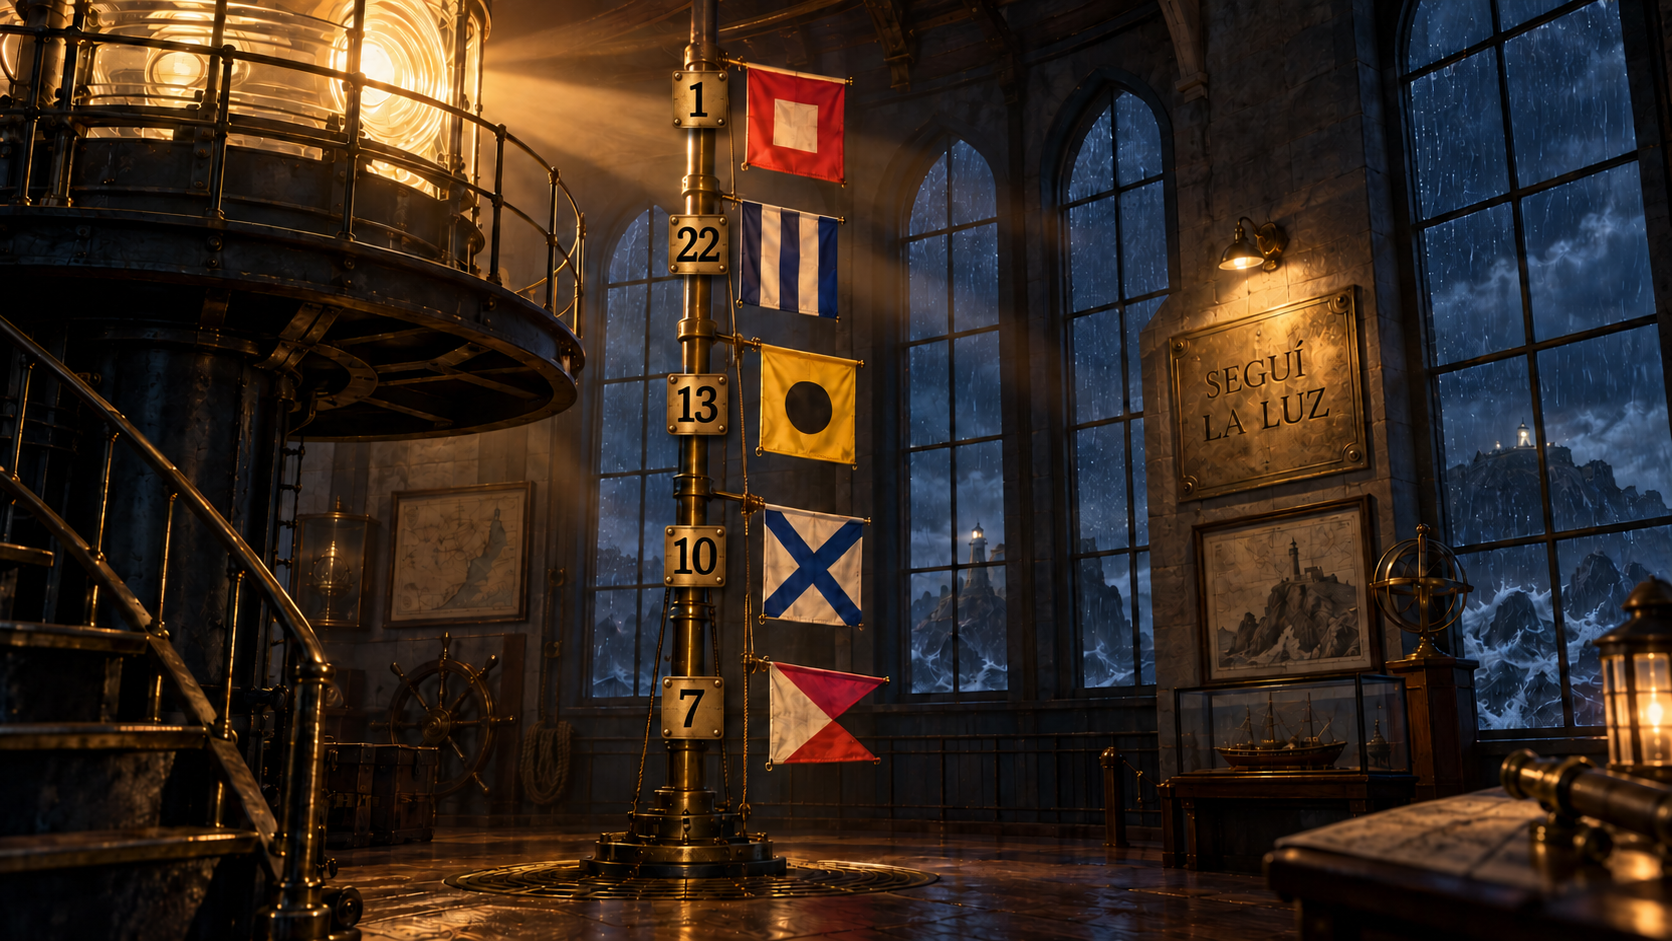
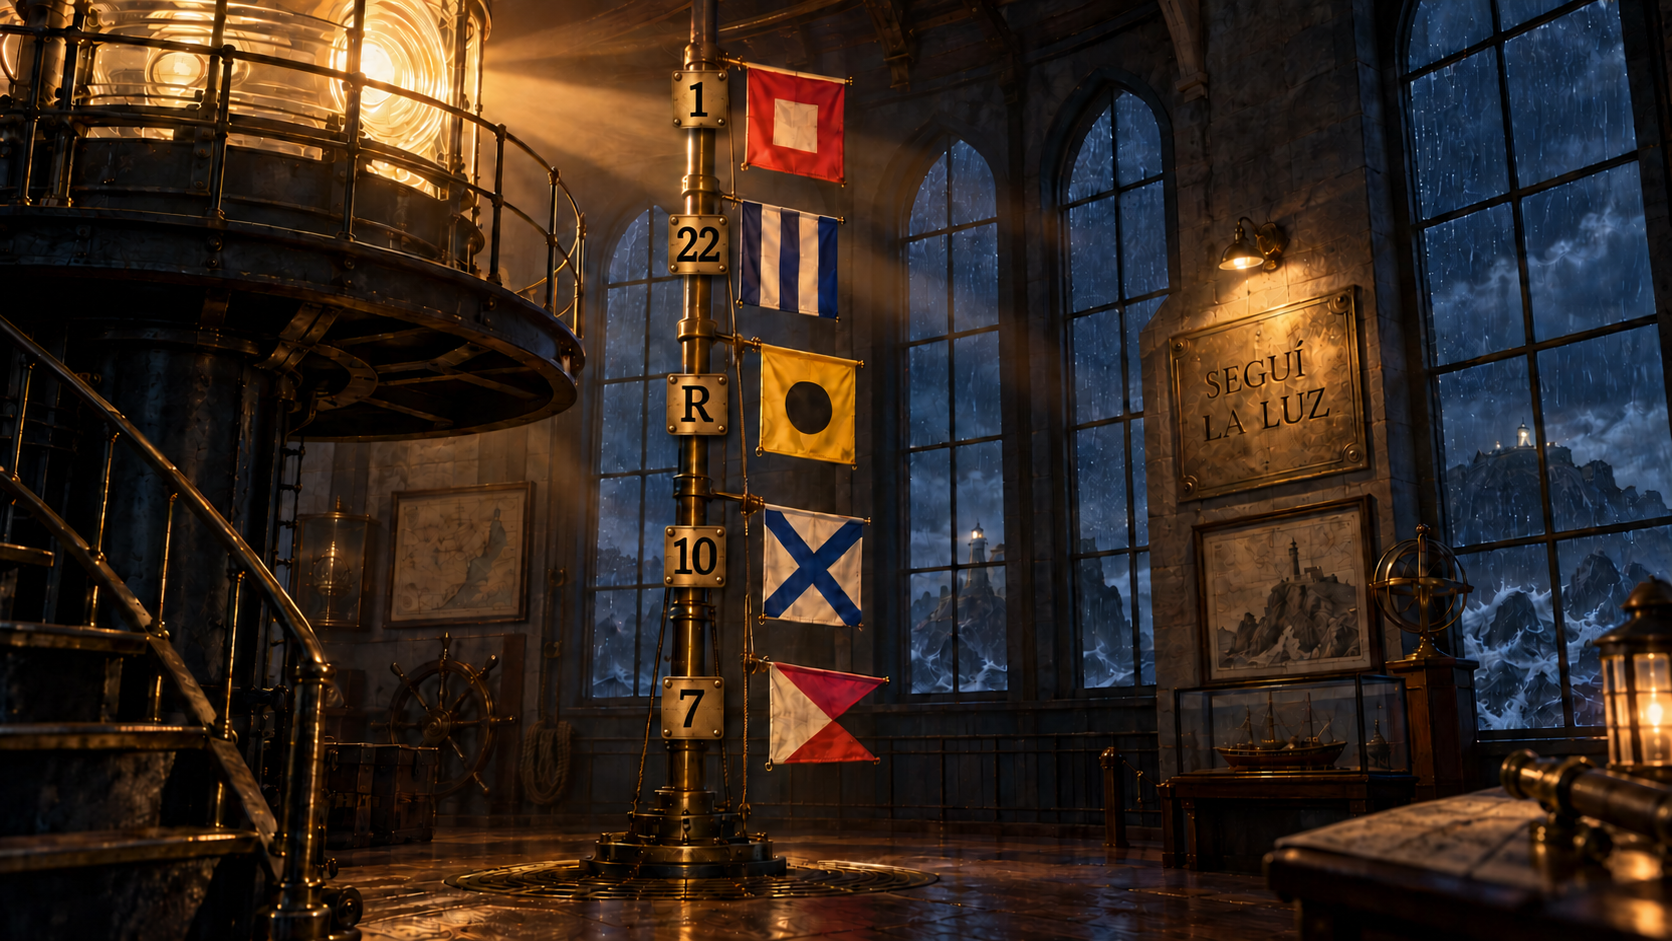
correct flag clue and clarify level seven masks

diff --git a/temp-vite-app/detectives/App.tsx b/temp-vite-app/detectives/App.tsx
@@ -59,7 +59,7 @@ function MechanicalCodeBuilder({onCode}:{onCode:(code:string)=>void}){
   useEffect(()=>{onCode(odd.length===3&&even.length===2?`${odd}${even}`:'');},[odd,even,onCode]);
   const digits=(value:string,max:number)=>value.replace(/\D/g,'').slice(0,max);
   const oddComplete=odd.length===3,evenComplete=even.length===2,oddCorrect=odd==='118',evenCorrect=even==='20',ready=oddCorrect&&evenCorrect;
-  return <section className={`mechanical-code-builder ${ready?'mechanism-ready':''}`} aria-labelledby="mechanical-builder-title"><span>CALIBRACIÓN DEL MECANISMO</span><h3 id="mechanical-builder-title">Armá la combinación</h3><p>Sumá cada recorrido por separado. El mecanismo unirá los dos resultados.</p><div><label className={oddComplete?(oddCorrect?'path-correct':'path-error'):''}>IMPARES<input inputMode="numeric" value={odd} onChange={event=>{const next=digits(event.target.value,3);if(next.length>odd.length)playKeyboardKey();setOdd(next);}} maxLength={3} placeholder="___" aria-label="Resultado de los impares"/></label><i aria-hidden="true">+</i><label className={evenComplete?(evenCorrect?'path-correct':'path-error'):''}>PARES<input inputMode="numeric" value={even} onChange={event=>{const next=digits(event.target.value,2);if(next.length>even.length)playKeyboardKey();setEven(next);}} maxLength={2} placeholder="__" aria-label="Resultado de los pares"/></label><output aria-live="polite"><strong>{ready?'11820':'·····'}</strong></output></div><small>{ready?'Mecanismo preparado. Verificá la combinación.':oddComplete&&!oddCorrect?'Revisá solamente el recorrido IMPARES.':evenComplete&&!evenCorrect?'Revisá solamente el recorrido PARES.':'Primero IMPARES; después PARES.'}</small></section>;
+  return <section className={`mechanical-code-builder ${ready?'mechanism-ready':''}`} aria-labelledby="mechanical-builder-title"><span>CALIBRACIÓN DEL MECANISMO</span><h3 id="mechanical-builder-title">Armá la combinación</h3><p>Usá la máscara A con los PARES y la máscara B con los IMPARES. Sumá cada recorrido por separado.</p><div><label className={oddComplete?(oddCorrect?'path-correct':'path-error'):''}>IMPARES · MÁSCARA B<input inputMode="numeric" value={odd} onChange={event=>{const next=digits(event.target.value,3);if(next.length>odd.length)playKeyboardKey();setOdd(next);}} maxLength={3} placeholder="___" aria-label="Resultado de los impares con la máscara B"/></label><i aria-hidden="true">+</i><label className={evenComplete?(evenCorrect?'path-correct':'path-error'):''}>PARES · MÁSCARA A<input inputMode="numeric" value={even} onChange={event=>{const next=digits(event.target.value,2);if(next.length>even.length)playKeyboardKey();setEven(next);}} maxLength={2} placeholder="__" aria-label="Resultado de los pares con la máscara A"/></label><output aria-live="polite"><strong>{ready?'11820':'·····'}</strong></output></div><small>{ready?'Mecanismo preparado. Verificá la combinación.':oddComplete&&!oddCorrect?'Revisá solamente el recorrido IMPARES.':evenComplete&&!evenCorrect?'Revisá solamente el recorrido PARES.':'Primero IMPARES; después PARES.'}</small></section>;
 }
 
 function FedeArtwork({src,alt,playing,variant,children,staticSrc,frames,sequence,frameDuration=.14}:{src:string;alt:string;playing:boolean;variant:string;children?:ReactNode;staticSrc?:string;frames?:string[];sequence?:string[];frameDuration?:number}){
@@ -114,13 +114,13 @@ function LevelFourStoryDialog({kind,onContinue}:{kind:'intro'|'success';onContin
 const lateStories={
   5:{introTitle:'Recuperá el registro.',introText:'El corredor desemboca en un puesto de conservación. Recuperá el dato oculto del informe y seguí su movimiento en la tabla.',successTitle:'R-17 deja un rastro.',successText:unlockMessages[4].text,background:'/los-archivos-f/images/bg-hidden-corridor.png',introArtwork:'/los-archivos-f/images/federica-nivel-5-inicio-v1.png'},
   6:{introTitle:'Cinco señales.',introText:'La Sala de Banderas conserva una indicación sobre el recorrido de la luz. Descubrí el orden y traducí las cinco señales.',successTitle:'Ubicación encontrada.',successText:unlockMessages[5].text,background:'/los-archivos-f/images/nivel-6-sala-banderas-v3.png',introArtwork:'/los-archivos-f/images/nivel-6-sala-banderas-v3.png'},
-  7:{introTitle:'Descubrí la clave.',introText:'La linterna superior oculta un compartimento. Seguí los recorridos IMPARES y PARES para abrirlo, pero mantené cerrado el sobre.',successTitle:'Compartimento abierto.',successText:unlockMessages[6].text,background:'/los-archivos-f/images/lens-workshop.jpg',introArtwork:'/los-archivos-f/images/lens-workshop.jpg'},
+  7:{introTitle:'Descubrí la clave.',introText:'La linterna superior oculta un compartimento. La máscara A va con los PARES y la B con los IMPARES. Seguí ambos recorridos para abrirlo, pero mantené cerrado el sobre.',successTitle:'Compartimento abierto.',successText:unlockMessages[6].text,background:'/los-archivos-f/images/lens-workshop.jpg',introArtwork:'/los-archivos-f/images/lens-workshop.jpg'},
 } as const;
 
 function LateLevelStoryDialog({level,kind,onContinue}:{level:5|6|7;kind:'intro'|'success';onContinue:()=>void}){
   const [playing,setPlaying]=useState(false);const story=lateStories[level];const success=kind==='success';
   return <section className={`level-three-story-dialog late-level-story-dialog late-level-${level} story-page-view`} aria-labelledby="late-story-title">
-    <div className={`late-story-visual ${level===5&&!success?'level-five-intro-artwork':''} ${level===6&&!success?'level-six-intro-artwork':''} ${level===6&&success?'level-six-final-artwork':''} ${level===7&&!success?'level-seven-intro-artwork':''} ${level===7&&success?'level-seven-final-artwork':''}`} style={{backgroundImage:level===6?'none':`linear-gradient(#03101955,#03101988),url(${level===5&&!success?story.introArtwork:story.background})`}}>{level===6&&!success?<FedeArtwork src={levelSixIntroFrames[0]} frames={levelSixIntroFrames} frameDuration={0.28} alt="Fede presenta la sala de banderas mientras la tormenta continúa tras las ventanas" playing={playing} variant="level-6-intro"/>:level===6&&success?<FedeArtwork src={levelSixFinalFrames[0]} frames={levelSixFinalFrames} frameDuration={0.28} alt="Fede concluye el caso de las banderas en la sala del faro" playing={playing} variant="level-6-success"/>:level===7&&!success?<FedeArtwork src={levelSevenIntroFrames[0]} frames={levelSevenIntroFrames} frameDuration={0.28} alt="Fede señala el tablero y presenta el último código" playing={playing} variant="level-7-intro"/>:level===7&&success?<FedeArtwork src={levelSevenFinalFrames[0]} frames={levelSevenFinalFrames} frameDuration={0.28} alt="Fede abre el compartimento secreto y celebra el hallazgo del rubí" playing={playing} variant="level-7-success"/>:level===5&&success?<FedeArtwork src={levelFiveFinalLoop[0]} frames={levelFiveFinalLoop} alt="Federica muestra el frasco de Resina R-17 en el taller" playing={playing} variant="level-5-final"/>:level===5?<picture className="level-five-intro-sequence"><source media="(prefers-reduced-motion: reduce)" srcSet="/los-archivos-f/images/federica-nivel-5-inicio-frame-1.webp"/><img src="/los-archivos-f/images/federica-nivel-5-inicio-loop.webp" alt="Federica presenta la entrada al pasillo oculto"/></picture>:<div className={`late-fede-character ${playing?'is-speaking':''}`}><img src="/los-archivos-f/images/federica-presentadora-v1.png" alt={`Federica presenta el ${success?'resultado':'objetivo'} del nivel ${level}`}/><span className="late-fede-mouth" aria-hidden="true"/></div>}{level===5&&!success&&<span className={`level-five-image-mouth ${playing?'talking':''}`} aria-hidden="true"/>}{level===6&&success&&<span className="story-beam" aria-hidden="true"/>}{level===7&&!success&&<div className="level-seven-board-copy" aria-label="Objetivo del mecanismo"><span>OBJETIVO</span><b>Descubrir el código de acceso al compartimento.</b><strong>Calculá <em>IMPARES</em> y <em>PARES</em> para formar la combinación.</strong></div>}<span className="story-light" aria-hidden="true"/><span className="story-dust" aria-hidden="true"/></div>
+    <div className={`late-story-visual ${level===5&&!success?'level-five-intro-artwork':''} ${level===6&&!success?'level-six-intro-artwork':''} ${level===6&&success?'level-six-final-artwork':''} ${level===7&&!success?'level-seven-intro-artwork':''} ${level===7&&success?'level-seven-final-artwork':''}`} style={{backgroundImage:level===6?'none':`linear-gradient(#03101955,#03101988),url(${level===5&&!success?story.introArtwork:story.background})`}}>{level===6&&!success?<FedeArtwork src={levelSixIntroFrames[0]} frames={levelSixIntroFrames} frameDuration={0.28} alt="Fede presenta la sala de banderas mientras la tormenta continúa tras las ventanas" playing={playing} variant="level-6-intro"/>:level===6&&success?<FedeArtwork src={levelSixFinalFrames[0]} frames={levelSixFinalFrames} frameDuration={0.28} alt="Fede concluye el caso de las banderas en la sala del faro" playing={playing} variant="level-6-success"/>:level===7&&!success?<FedeArtwork src={levelSevenIntroFrames[0]} frames={levelSevenIntroFrames} frameDuration={0.28} alt="Fede señala el tablero y presenta el último código" playing={playing} variant="level-7-intro"/>:level===7&&success?<FedeArtwork src={levelSevenFinalFrames[0]} frames={levelSevenFinalFrames} frameDuration={0.28} alt="Fede abre el compartimento secreto y celebra el hallazgo del rubí" playing={playing} variant="level-7-success"/>:level===5&&success?<FedeArtwork src={levelFiveFinalLoop[0]} frames={levelFiveFinalLoop} alt="Federica muestra el frasco de Resina R-17 en el taller" playing={playing} variant="level-5-final"/>:level===5?<picture className="level-five-intro-sequence"><source media="(prefers-reduced-motion: reduce)" srcSet="/los-archivos-f/images/federica-nivel-5-inicio-frame-1.webp"/><img src="/los-archivos-f/images/federica-nivel-5-inicio-loop.webp" alt="Federica presenta la entrada al pasillo oculto"/></picture>:<div className={`late-fede-character ${playing?'is-speaking':''}`}><img src="/los-archivos-f/images/federica-presentadora-v1.png" alt={`Federica presenta el ${success?'resultado':'objetivo'} del nivel ${level}`}/><span className="late-fede-mouth" aria-hidden="true"/></div>}{level===5&&!success&&<span className={`level-five-image-mouth ${playing?'talking':''}`} aria-hidden="true"/>}{level===6&&success&&<span className="story-beam" aria-hidden="true"/>}{level===7&&!success&&<div className="level-seven-board-copy" aria-label="Objetivo del mecanismo"><span>OBJETIVO</span><b>Descubrir el código de acceso al compartimento.</b><strong><em>A</em> con PARES · <em>B</em> con IMPARES.</strong></div>}<span className="story-light" aria-hidden="true"/><span className="story-dust" aria-hidden="true"/></div>
     <div className="level-three-story-copy"><p className="story-dialog-kicker">AGENCIA F · {success?'NIVEL COMPLETADO':`INICIO DEL NIVEL ${level}`}</p><div className="story-dialog-title-row"><h2 id="late-story-title">{success?story.successTitle:story.introTitle}</h2></div><SimulatedPlayer label={`${success?'Mensaje final':'Bienvenida'} de Fede · Nivel ${level}`} source={`/los-archivos-f/audio/fede-nivel-${level}-${success?'final':'inicio'}.m4a`} onPlaying={setPlaying}/><p>{success?story.successText:story.introText}</p>{(level!==7||success)&&<button className="primary-button story-page-action" type="button" onClick={onContinue}>{success?(level===7?'PRESENTAR LA ACUSACIÓN':`CONTINUAR AL NIVEL ${level+1}`):'COMENZAR LA MISIÓN'} <span>→</span></button>}</div>
     {level===7&&!success&&<button className="primary-button story-page-action level-seven-start-action" type="button" onClick={onContinue}>COMENZAR LA MISIÓN <span>→</span></button>}
   </section>;

diff --git a/temp-vite-app/detectives/case.ts b/temp-vite-app/detectives/case.ts
@@ -64,9 +64,9 @@ export const levels = [
     kicker: 'NIVEL 7 · CERRADURA MECÁNICA',
     prompt: '¿Cuál es el código del compartimento?',
     evidence: ['Sobre dirigido al agente', 'Mecanismo del compartimento preparado'],
-    digital: 'Mecanismo del compartimento detectado. La combinación no está registrada en el sistema. Seguí los recorridos IMPARES y PARES para reconstruirla.',
+    digital: 'Mecanismo del compartimento detectado. La combinación no está registrada en el sistema. Usá la máscara A con los PARES y la máscara B con los IMPARES para reconstruirla.',
     placeholder: '5 cifras', answer: ['11820'], lock: 'mechanical',
-    hints: ['La pieza ya está recortada. Observá qué parte puede moverse y qué marcas permiten alinearla.', 'La alineación revela dos recorridos rotulados IMPARES y PARES. Respetá qué valores quedan señalados en cada uno.', 'El recorrido IMPARES da un resultado de tres cifras y el recorrido PARES uno de dos. Escribilos juntos, en ese orden.', 'SOLUCIÓN DIRECTA · 19 + 21 + 23 + 25 + 30 = 118; 2 + 4 + 6 + 8 + 0 = 20. Ingresá 11820.'],
+    hints: ['La pieza ya está recortada. La máscara A va con los PARES y la máscara B con los IMPARES.', 'La alineación revela dos recorridos rotulados IMPARES y PARES. Respetá qué valores quedan señalados en cada uno.', 'El recorrido IMPARES da un resultado de tres cifras y el recorrido PARES uno de dos. Escribilos juntos, en ese orden.', 'SOLUCIÓN DIRECTA · 19 + 21 + 23 + 25 + 30 = 118; 2 + 4 + 6 + 8 + 0 = 20. Ingresá 11820.'],
     unlock: 'Acceso a la acusación final',
   },
 ];
